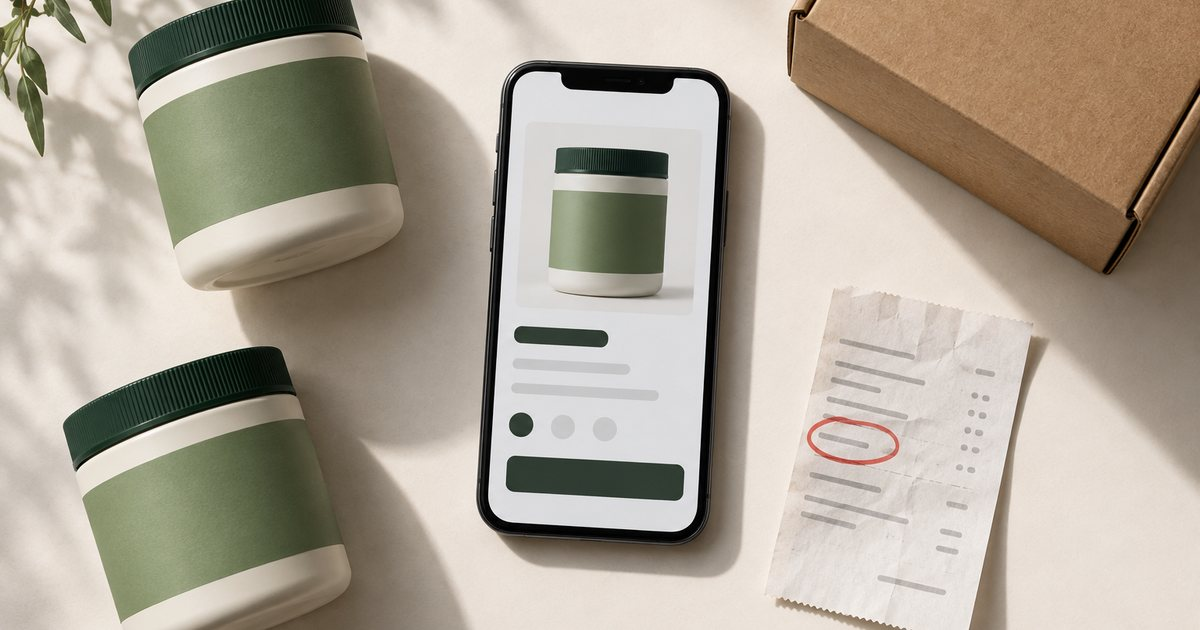
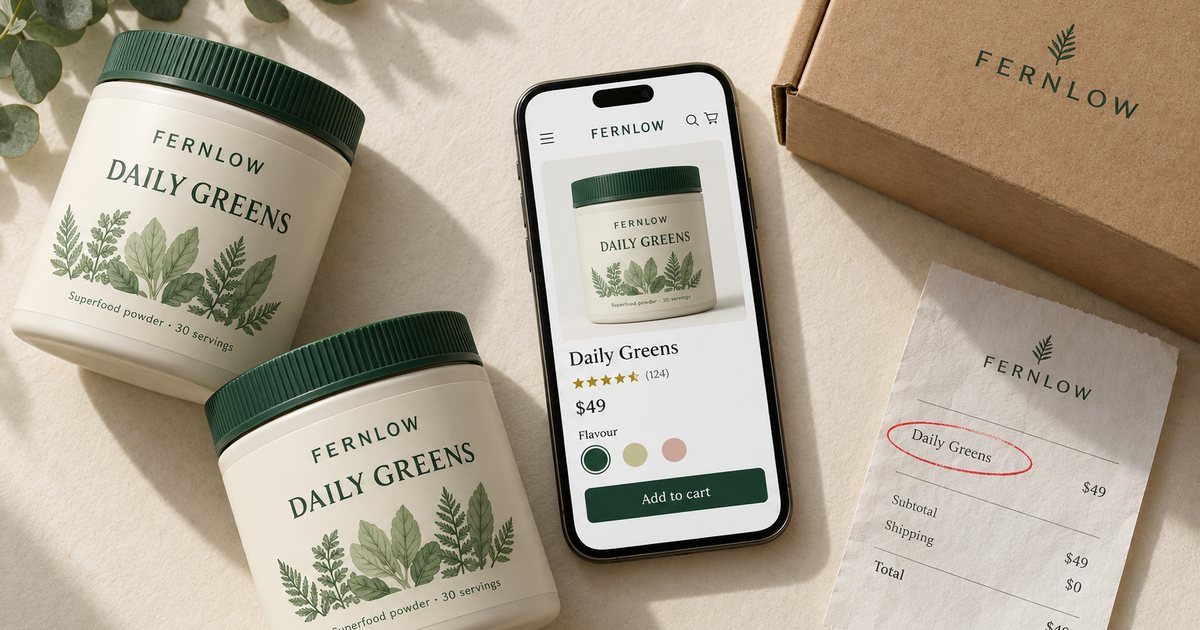
Show the journal post with an invented brand, Fernlow, instead of placeholders
The cover and every mock-up now use ImageGen packshots of one made-up
greens brand, so the examples read as a real store.

diff --git a/components/blog/LeakFigure.tsx b/components/blog/LeakFigure.tsx
@@ -1,3 +1,4 @@
+import Image from "next/image";
 import type { ReactNode } from "react";
 
 import type { BlogFigureKey } from "@/lib/content";
@@ -5,50 +6,40 @@ import type { BlogFigureKey } from "@/lib/content";
 import styles from "./LeakFigure.module.css";
 
 /*
- * Before/after phone mock-ups for the store-leak posts. Everything is drawn in
- * HTML and SVG so it stays sharp, themeable and readable by screen readers
- * through each figure's caption. The store in them is invented.
+ * Before/after phone mock-ups for the store-leak posts. The screens are HTML so
+ * they stay sharp and readable by screen readers through each figure's caption;
+ * the products are packshots of Fernlow, an invented brand.
  */
 
-const flavours = {
-  greens: "#7FA36B",
-  chocolate: "#6B4A36",
-  vanilla: "#E2CF9E",
-  berry: "#A34D6A",
-  mango: "#E0A13E",
-  mint: "#8CC3AE",
+const packs = {
+  greens: "/images/blog/fernlow/daily-greens.jpg",
+  trial: "/images/blog/fernlow/trial-pack.jpg",
+  samplesBefore: "/images/blog/fernlow/sample-pack-before.jpg",
+  samplesAfter: "/images/blog/fernlow/sample-pack-after.jpg",
 };
 
-type Flavour = keyof typeof flavours;
+type PackName = keyof typeof packs;
 
-/** A supplement tub: lid, body and a coloured label band. */
-export function Tub({ flavour = "greens", className }: { flavour?: Flavour; className?: string }) {
-  return (
-    <svg aria-hidden="true" className={className} viewBox="0 0 60 72">
-      <rect fill="#1F3A2A" height="11" rx="3" width="44" x="8" y="4" />
-      <rect fill="#FBFAF7" height="54" rx="7" stroke="#CFC9BB" width="50" x="5" y="14" />
-      <rect fill={flavours[flavour]} height="22" width="50" x="5" y="30" />
-      <rect fill="#FBFAF7" height="3" opacity="0.85" rx="1.5" width="22" x="19" y="38" />
-      <rect fill="#FBFAF7" height="2" opacity="0.6" rx="1" width="14" x="23" y="44" />
-    </svg>
-  );
+/** A Fernlow product photo, sized by the class it's given. */
+function Pack({ name = "greens", className }: { name?: PackName; className?: string }) {
+  return <Image alt="" className={className} height={600} sizes="12rem" src={packs[name]} width={600} />;
 }
 
 function Phone({ children, url }: { children: ReactNode; url?: string }) {
   return (
     <div className={styles.phone}>
       <div className={styles.bar}>
-        <span className={styles.url}>{url ?? "yourstore.com"}</span>
+        <span className={styles.url}>{url ?? "fernlow.com"}</span>
       </div>
       <div className={styles.screen}>{children}</div>
     </div>
   );
 }
 
-function Shot({ flavour, children }: { flavour?: Flavour; children?: ReactNode }) {
+function Shot({ pack, children }: { pack?: PackName; children?: ReactNode }) {
   return (
     <div className={styles.shot}>
-      <Tub className={styles.tub} flavour={flavour} />
+      <Pack className={styles.tub} name={pack} />
       {children}
     </div>
   );
@@ -152,7 +143,7 @@ function SoldOut() {
               <span>Shop the trial</span>
             </div>
             <p className={styles.tap}>↓ tap</p>
-            <Shot flavour="mint" />
+            <Shot pack="trial" />
             <p className={styles.ptitle}>Trial pack</p>
             <Mark tag="Dead end" tone="bad">
               <div className={`${styles.btn} ${styles.btnOff}`}>Sold out</div>
@@ -163,13 +154,13 @@ function SoldOut() {
       after={
         <Panel caption="The sold-out page sends them somewhere they can buy." title={after} tone="good">
           <Phone>
-            <Shot flavour="mint" />
+            <Shot pack="trial" />
             <p className={styles.ptitle}>Trial pack</p>
             <p className={styles.note}>Back on November 12.</p>
             <div className={`${styles.btn} ${styles.btnGhost}`}>Email me when it’s back</div>
             <Mark tone="good">
               <div className={styles.card}>
-                <Tub className={styles.cardTub} flavour="greens" />
+                <Pack className={styles.cardTub} />
                 <div>
                   <p className={styles.cardKicker}>Most people start with</p>
                   <p className={styles.cardTitle}>Starter Bundle · $39</p>
@@ -189,7 +180,7 @@ function DeadLink() {
       alt="Before: a homepage button opens an address ending in -draft and shows Page not found. After: the same button opens the published guide."
       before={
         <Panel caption="Fine in the theme editor, broken for every shopper." title={before} tone="bad">
-          <Phone url="…/pages/starter-guide-draft">
+          <Phone url="fernlow.com/pages/starter-guide-draft">
             <Mark tag="404" tone="bad">
               <div className={styles.error}>
                 <p className={styles.errorCode}>404</p>
@@ -202,12 +193,12 @@ function DeadLink() {
       }
       after={
         <Panel caption="The button points at the live page, and the old address redirects." title={after} tone="good">
-          <Phone url="…/pages/starter-guide">
+          <Phone url="fernlow.com/pages/starter-guide">
             <Mark tone="good">
               <p className={styles.articleTitle}>Which one is right for you?</p>
             </Mark>
             <Lines count={4} />
-            <Shot flavour="greens" />
+            <Shot />
             <Lines count={2} />
           </Phone>
         </Panel>
@@ -217,21 +208,13 @@ function DeadLink() {
 }
 
 function SamplePack() {
-  const tubs = (list: Flavour[]) => (
-    <div className={styles.quad}>
-      {list.map((flavour) => (
-        <Tub className={styles.quadTub} flavour={flavour} key={flavour} />
-      ))}
-    </div>
-  );
-
   return (
     <Pair
       alt="Before: the four-flavour sample pack leaves out chocolate, the flavour with 3,200 reviews, and its own reviews ask for more flavours. After: chocolate is in the pack."
       before={
         <Panel caption="The flavour most regulars buy isn’t in the box." title={before} tone="bad">
           <Phone>
-            <div className={styles.shot}>{tubs(["vanilla", "berry", "mango", "mint"])}</div>
+            <Shot pack="samplesBefore" />
             <p className={styles.ptitle}>Sample pack · 4 flavours</p>
             <Mark tag="Missing" tone="bad">
               <p className={styles.note}>Chocolate · ★ 4.9 · 3,200 reviews</p>
@@ -246,7 +229,7 @@ function SamplePack() {
         <Panel caption="The best seller leads the pack." title={after} tone="good">
           <Phone>
             <Mark tone="good">
-              <div className={styles.shot}>{tubs(["chocolate", "vanilla", "berry", "mango"])}</div>
+              <Shot pack="samplesAfter" />
             </Mark>
             <p className={styles.ptitle}>Sample pack · 4 flavours</p>
             <p className={styles.note}>
@@ -389,7 +372,7 @@ function ReorderEmail() {
             <Timeline />
             <Mark tag="Nothing sent" tone="bad">
               <div className={styles.inbox}>
-                <p>No new mail from Daily Greens</p>
+                <p>No new mail from Fernlow</p>
               </div>
             </Mark>
             <Lines count={3} />
@@ -403,7 +386,7 @@ function ReorderEmail() {
             <Mark tone="good">
               <div className={styles.email}>
                 <p className={styles.emailSubject}>Running low on Daily Greens?</p>
-                <Tub className={styles.emailTub} />
+                <Pack className={styles.emailTub} />
                 <p className={styles.note}>$49 one-time · $44.10 when you subscribe</p>
                 <div className={styles.btn}>Reorder</div>
               </div>
@@ -421,7 +404,7 @@ function GuideToProduct() {
       alt="Before: a buying guide ends with no product, and the reader has to go and find it. After: the guide ends with a product card showing the starter pack, what is in it, the price and an add to cart button."
       before={
         <Panel caption="The guide answers the question, then just ends." title={before} tone="bad">
-          <Phone url="…/blogs/which-greens">
+          <Phone url="fernlow.com/blogs/which-greens">
             <p className={styles.articleTitle}>Which greens powder is right for you?</p>
             <Lines count={5} />
             <Lines count={3} />
@@ -433,12 +416,12 @@ function GuideToProduct() {
       }
       after={
         <Panel caption="The answer comes with the product, ready to buy." title={after} tone="good">
-          <Phone url="…/blogs/which-greens">
+          <Phone url="fernlow.com/blogs/which-greens">
             <p className={styles.articleTitle}>Which greens powder is right for you?</p>
             <Lines count={4} />
             <Mark tone="good">
               <div className={styles.product}>
-                <Tub className={styles.productTub} />
+                <Pack className={styles.productTub} />
                 <div>
                   <p className={styles.cardTitle}>Starter Pack</p>
                   <p className={styles.small}>2 tubs + shaker · $59</p>

diff --git a/components/blog/LeakFigure.module.css b/components/blog/LeakFigure.module.css
@@ -114,17 +114,18 @@
   text-transform: uppercase;
 }
 
+/* Packshots are shot on --ks-paper-2, so they sit flush in this frame. */
 .shot {
-  align-items: center;
   background: var(--ks-paper-2);
-  display: flex;
-  justify-content: center;
-  padding: 0.75rem;
+  overflow: hidden;
 }
 
 .tub {
-  height: 5.25rem;
-  width: auto;
+  aspect-ratio: 4 / 3;
+  display: block;
+  height: auto;
+  object-fit: cover;
+  width: 100%;
 }
 
 .ptitle {
@@ -258,7 +259,9 @@
 }
 
 .cardTub {
-  height: 2.6rem;
+  aspect-ratio: 1;
+  height: 2.8rem;
+  object-fit: cover;
   width: auto;
 }
 
@@ -277,7 +280,9 @@
 }
 
 .productTub {
-  height: 3rem;
+  aspect-ratio: 1;
+  height: 3.2rem;
+  object-fit: cover;
   width: auto;
 }
 
@@ -301,17 +306,6 @@
   font-size: 0.9rem;
   font-weight: 700;
   line-height: 1.2;
-}
-
-.quad {
-  display: grid;
-  gap: 0.35rem;
-  grid-template-columns: repeat(4, 1fr);
-}
-
-.quadTub {
-  height: 3.3rem;
-  width: auto;
 }
 
 .review {
@@ -430,7 +424,9 @@
 }
 
 .emailTub {
-  height: 3.4rem;
+  aspect-ratio: 1;
+  height: 4.5rem;
+  object-fit: cover;
   width: auto;
 }
 

diff --git a/lib/content/blog.ts b/lib/content/blog.ts
@@ -27,7 +27,7 @@ export const blogPosts: BlogPostContent[] = [
     tags: ["Shopify", "Supplements", "Conversion", "Store audit", "Klaviyo"],
     cover: {
       src: "/images/blog/supplement-store-sales-leaks.jpg",
-      alt: "A phone showing a supplement product page beside two supplement tubs, a shipping box and a receipt.",
+      alt: "A phone showing a greens powder product page beside two tubs of the same powder, a shipping box and a receipt.",
       width: 1536,
       height: 1024,
     },
